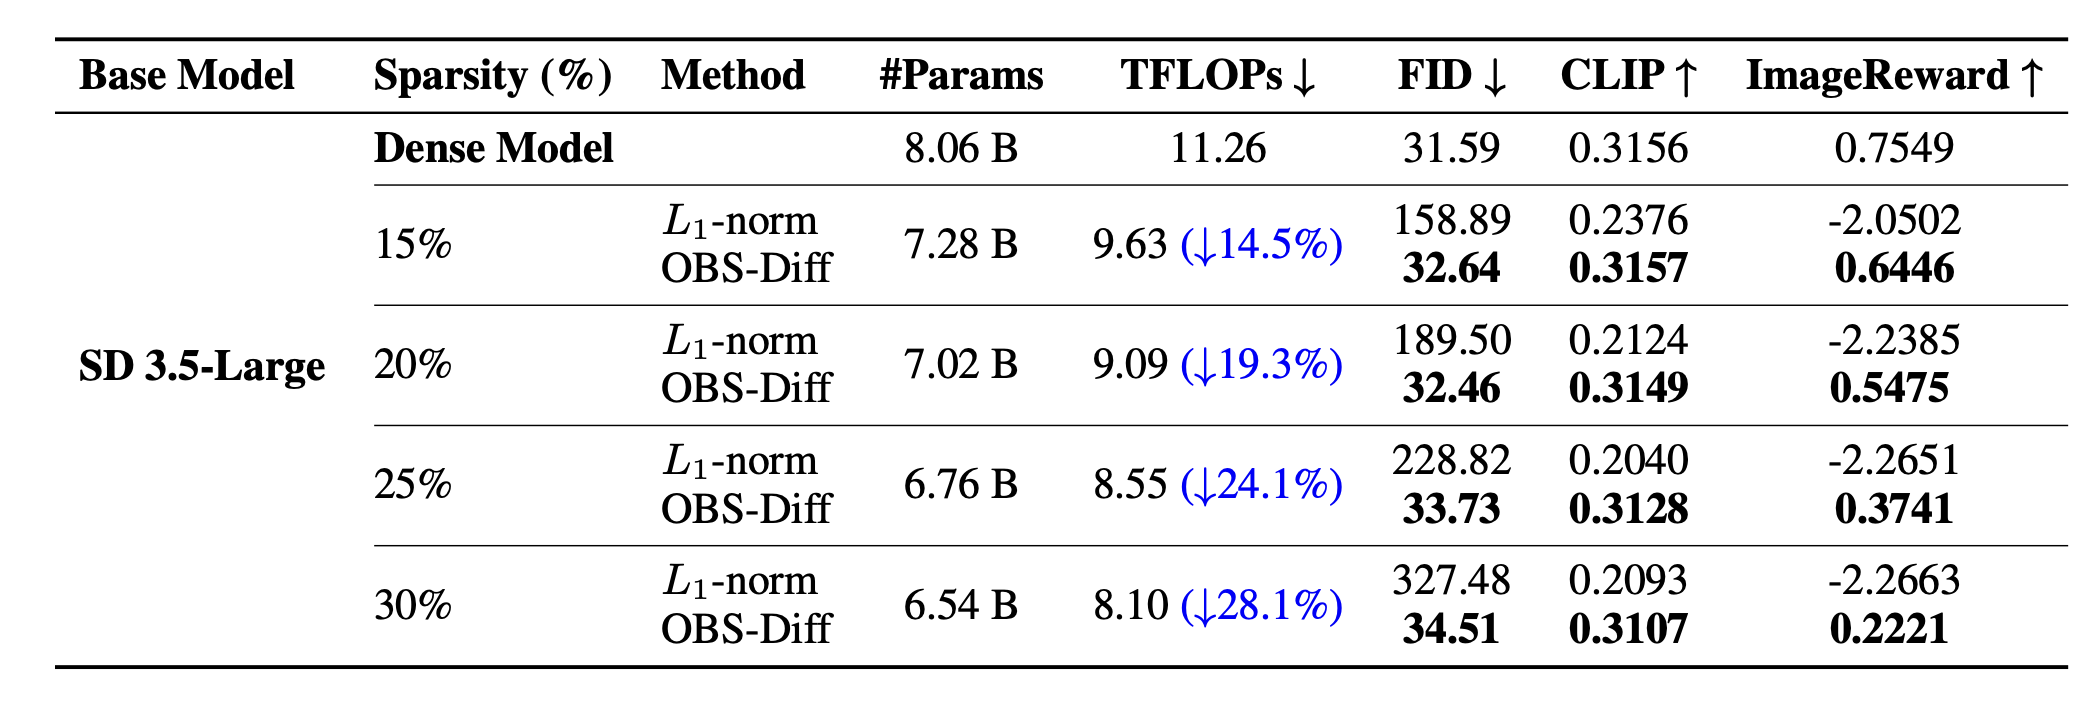
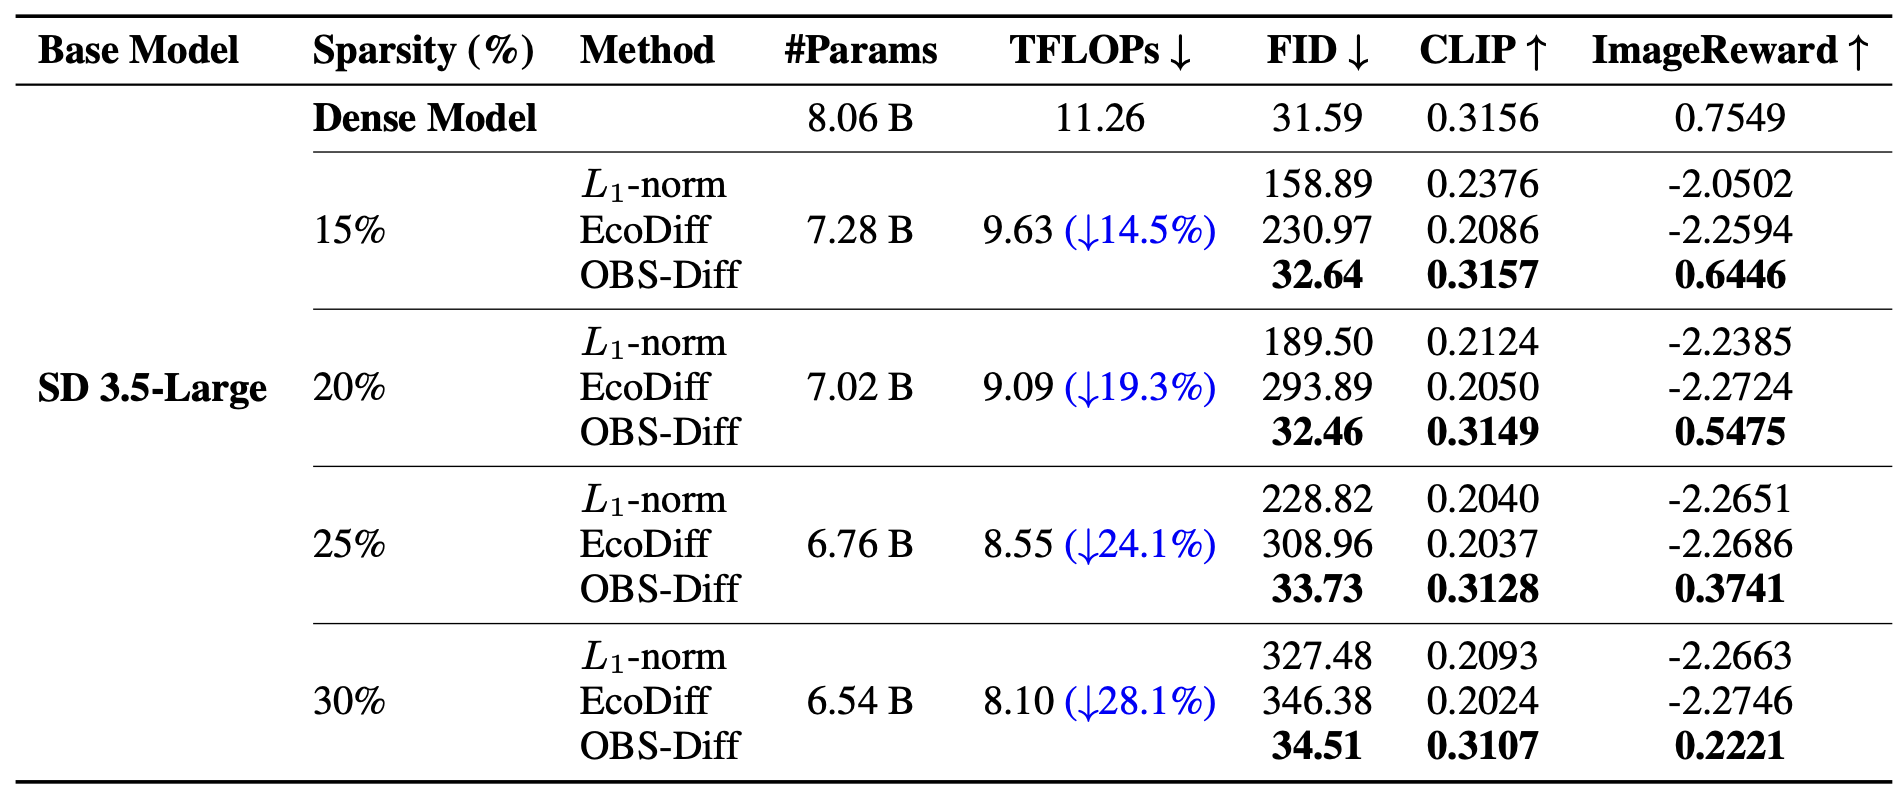
update

diff --git a/index.html b/index.html
@@ -296,6 +296,25 @@
                     <span>arXiv</span>
                     </a>
                   </span>
+                  <span class="link-block">
+                    <a href="https://huggingface.co/Alrightlone/OBS-Diff-SDXL" target="_blank"
+                    class="external-link button is-normal is-rounded is-dark">
+                    <span class="icon">
+                      🤗
+                    </span>
+                    <span>SDXL</span>
+                  </a>
+                  </span>
+
+                  <span class="link-block">
+                    <a href="https://huggingface.co/Alrightlone/OBS-Diff-SD3.5-Large" target="_blank"
+                    class="external-link button is-normal is-rounded is-dark">
+                    <span class="icon">
+                      🤗
+                    </span>
+                    <span>SD3.5-Large</span>
+                  </a>
+                  </span>
                 </div>
               </div>
             </div>
@@ -379,6 +398,14 @@
           Performance of semi-structured (2:4 sparsity pattern) pruning on the Stable Diffusion 3.5-Large model. Pruning is applied to the 3rd through 25th MMDiT blocks. The best result is shown in <b>bold</b>.
        </h2>
      </div>
+     <div class="item">
+      <!-- Your image here -->
+      <img src="static/images/structure.png" alt="Fourth research result visualization" style="max-width: 100%; height: auto;"loading="lazy"/>
+      <h2 class="subtitle has-text-centered">
+        Performance of structured pruning on the SDXL (U-Net) model across various sparsity
+levels. Comparison includes the L1-norm baseline, EcoDiff, and our proposed OBS-Diff. The TFLOPs metric represents the theoretical computational cost for a single forward pass of the entire UNet. For each sparsity group, the best result per metric is highlighted in <b>bold</b>.
+      </h2>
+    </div>
      <div class="item">
       <!-- Your image here -->
       <img src="static/images/structured.png" alt="Fourth research result visualization" style="max-width: 100%; height: auto;"loading="lazy"/>
